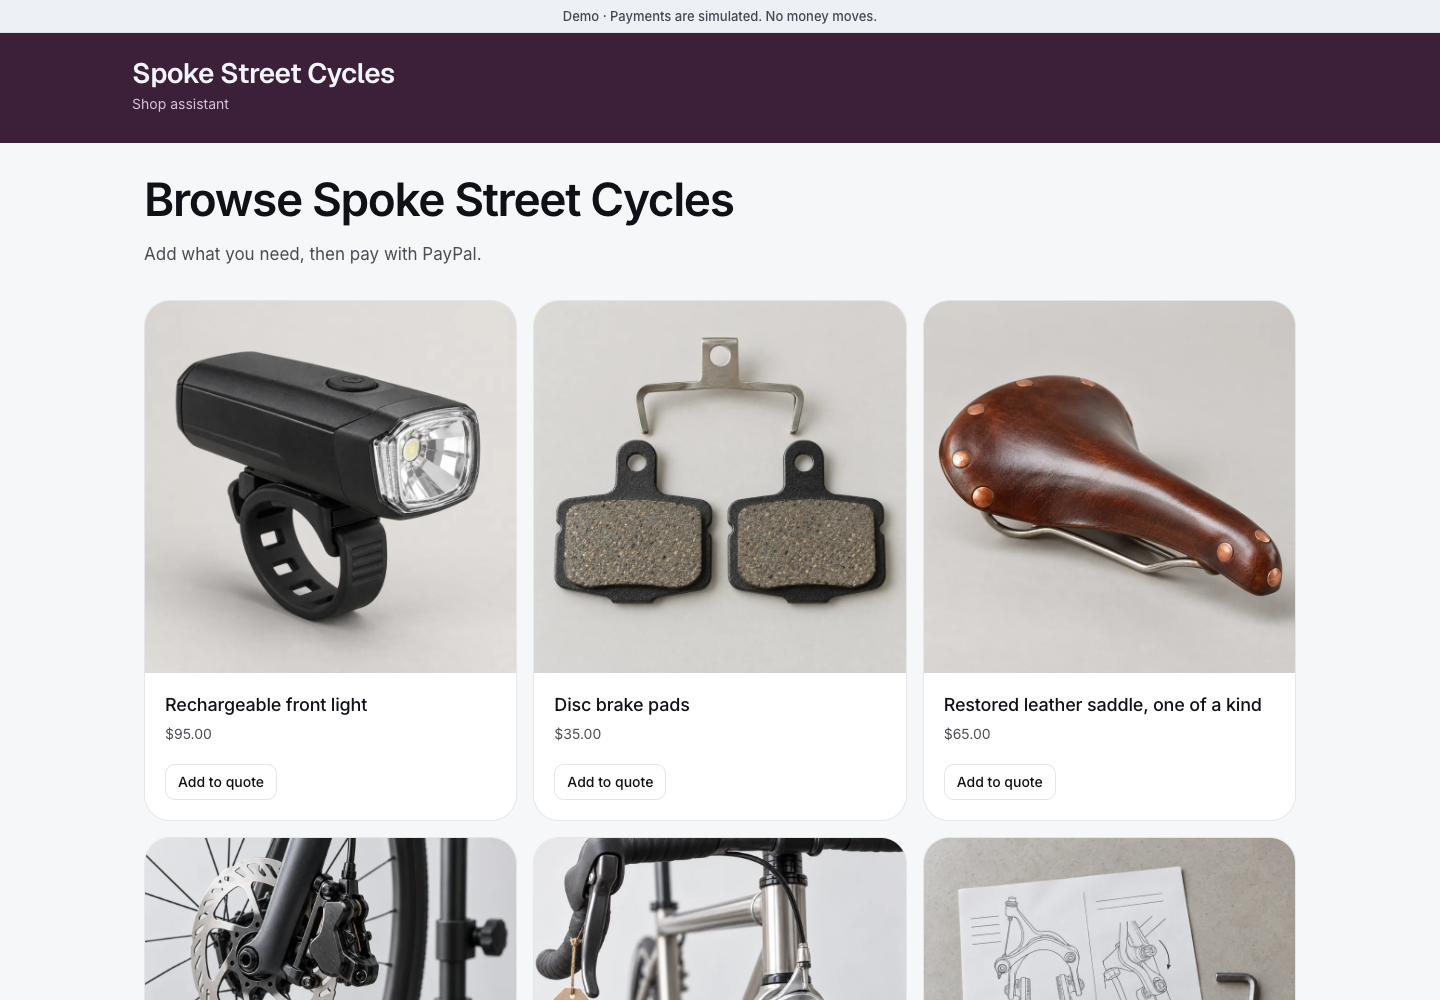
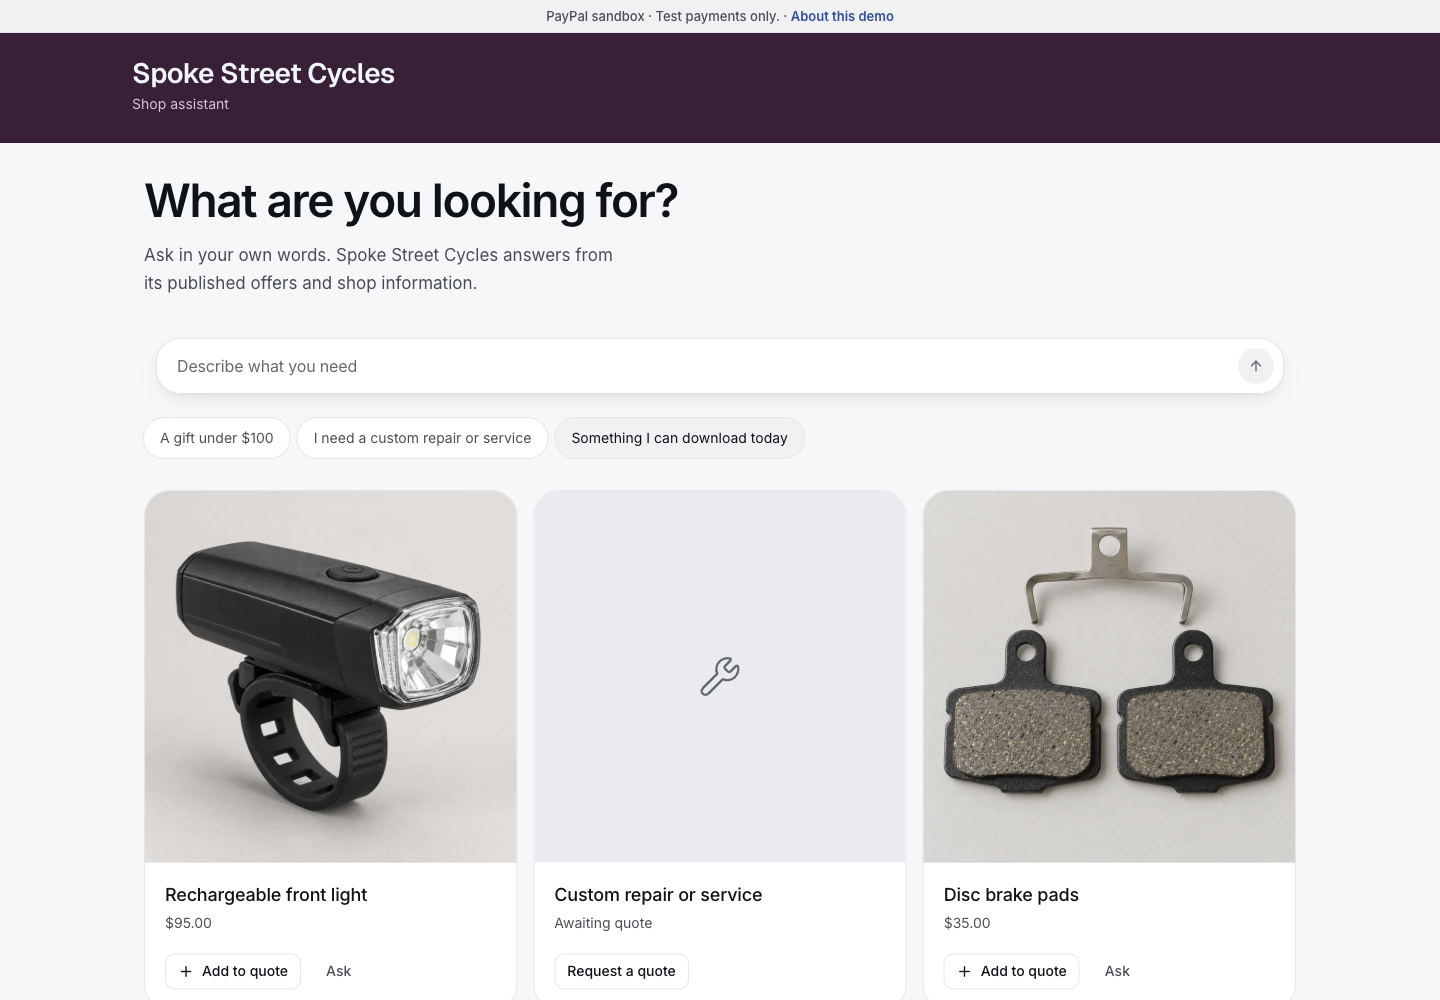
docs: Show today's shop screens and name the connector as agentic commerce
The catalog and quote pictures showed the old product cards. The README now
says in one paragraph what the owner's AI apps can and cannot do. A link to
a file that is not in the repository is removed.

Files changed:
- docs/media/buyer-catalog.png, buyer-quote.png: captured from the hosted demo on 9 November
- README.md: the connector paragraph
- docs/readiness.md: drop the dead link

diff --git a/docs/readiness.md b/docs/readiness.md
@@ -58,4 +58,4 @@ The source is free to install. Hosting, model usage and payment processing have 
 
 ## Earlier evidence
 
-The [PostgreSQL/D1 verification record](database-verification-2026-10-15.md), [October 15 deployment record](deployment-cloudflare-2026-10-15.md), [verification history](proof-matrix.md) and [handover](../HANDOFF.md) preserve the dated scope. Earlier failures or unverified statements there do not replace the current checklist above. No new cloud deployment or public repository has been created by the October 19 implementation work.
+The [PostgreSQL/D1 verification record](database-verification-2026-10-15.md), [October 15 deployment record](deployment-cloudflare-2026-10-15.md) and [verification history](proof-matrix.md) preserve the dated scope. Earlier failures or unverified statements there do not replace the current checklist above. No new cloud deployment or public repository has been created by the October 19 implementation work.

diff --git a/README.md b/README.md
@@ -125,6 +125,10 @@ database and no fine-tuning. For every message:
 
 The learning review above is a separate, owner-triggered model call with a structured answer.
 
+**Agentic commerce, with limits.** Each installation is also a connector (MCP) and an Agent
+Skill for the owner's own AI apps. Claude, ChatGPT, Codex or Cursor can read who is waiting,
+orders and offers, and draft answers. They cannot message customers, change prices or move money.
+
 ![Nothing is released until PayPal confirms it: the server retrieves the order, checks it, captures once; recovery job and verified webhook as backups](docs/media/diagram-paypal.png)
 
 **PayPal.** Checkout uses the Orders v2 API: create, retrieve and capture. Before an order or a
